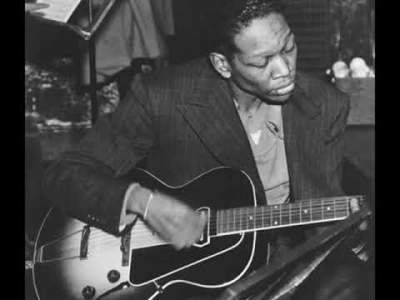
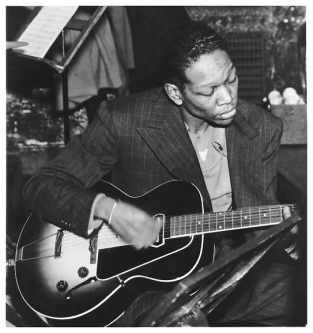
Updates

diff --git a/styles.scss b/styles.scss
@@ -39,6 +39,7 @@ button:hover {
 
 img {
     height: 300px;
+    width: 313px;
     display: block;
     margin: 0 auto;
 }
@@ -223,4 +224,26 @@ img {
                 right: 150px;
             }
 }
+}
+
+@media screen and (max-width: 400px){
+    #question-answer-display {
+        margin: 0 auto 0px;
+    }
+
+    .youtube-wrapper {
+        width: 200px;
+        p {
+            height: 30px;
+            padding: 8px;
+            font-size: 0.8rem;
+            span {
+                font-size: 0.9rem;
+            }
+        }
+        i {
+            top:60px;
+            right: 50px;
+        }
+    }
 }

diff --git a/styles.css b/styles.css
@@ -41,6 +41,7 @@ button:hover {
 
 img {
   height: 300px;
+  width: 313px;
   display: block;
   margin: 0 auto;
 }
@@ -255,6 +256,27 @@ img {
     font-size: 3rem;
     top: 50px;
     right: 150px;
+  }
+}
+
+@media screen and (max-width: 400px) {
+  #question-answer-display {
+    margin: 0 auto 0px;
+  }
+  .youtube-wrapper {
+    width: 200px;
+  }
+  .youtube-wrapper p {
+    height: 30px;
+    padding: 8px;
+    font-size: 0.8rem;
+  }
+  .youtube-wrapper p span {
+    font-size: 0.9rem;
+  }
+  .youtube-wrapper i {
+    top: 60px;
+    right: 50px;
   }
 }
 /*# sourceMappingURL=styles.css.map */

diff --git a/index.js b/index.js
@@ -88,6 +88,9 @@
 
     function displayImage(){
         img.style.display = 'block';
+        // window.innerWidth > 400? img.style.width = '400px':
+        //                          img.style.width = '100%';
+        // img.style.width = '300px';
         img.src = `./images/optimized/${currentTrack.image}`;
         questionAndAnswerDisplay.appendChild(img);
     }
